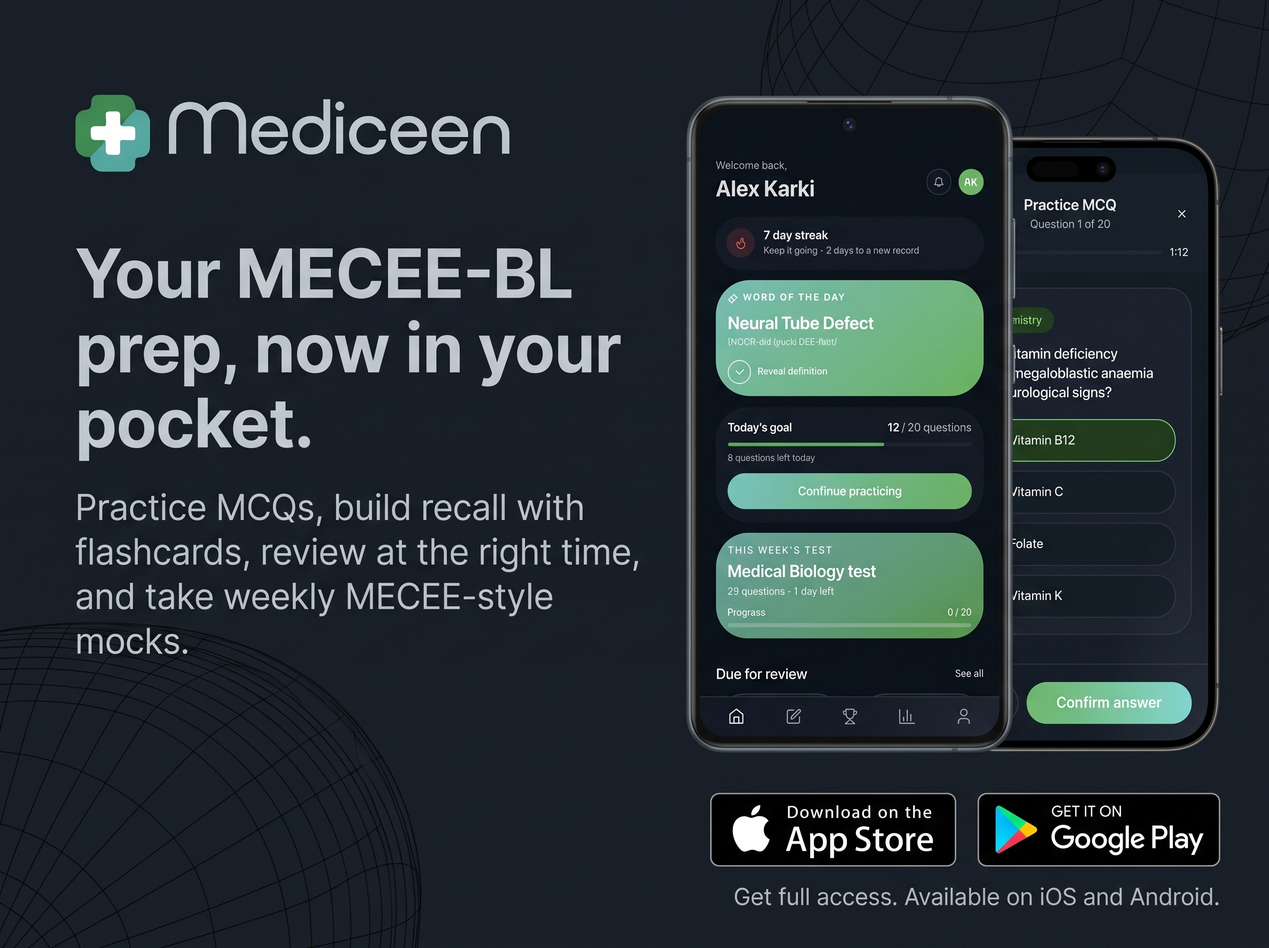
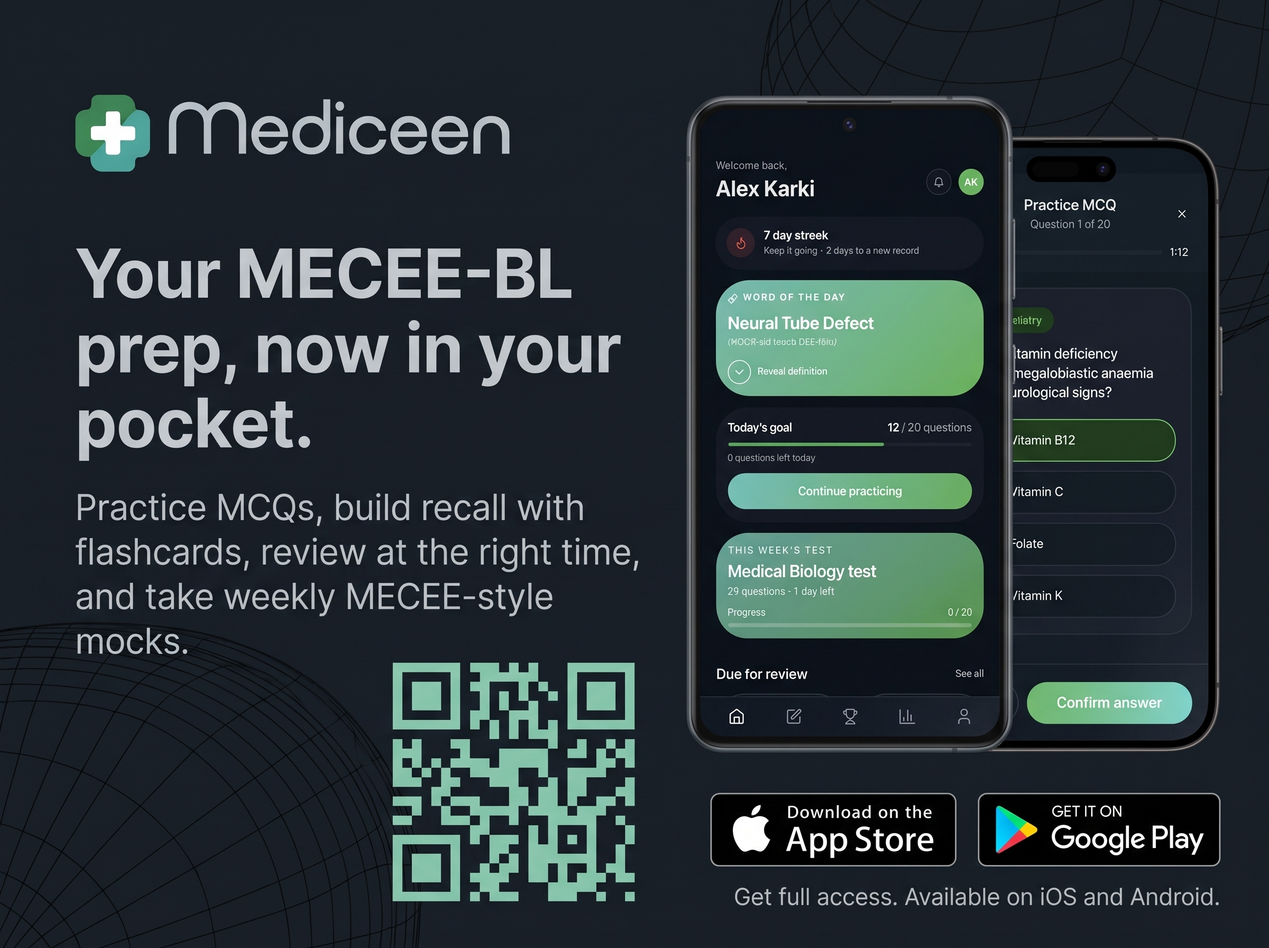
qr updated

diff --git a/AGENTS.md b/AGENTS.md
@@ -33,7 +33,7 @@ This file is the single source of truth for any AI coding assistant (Claude, Cur
 
 - **What's in progress right now:** Desktop TBT (~700ms) and document-request latency (~530ms estimated savings) were investigated and left unchanged — see Known issues. App Store listing / `STORE_LINKS.appStore` still pending. Confirm Resend domain verification + `RESEND_API_KEY` on Vercel and smoke-test delete-account form routing (email → privacy@, Google/Apple → support@). After deploy, confirm GA4 Realtime for `G-ZS8FFTDP00`. Re-measure PageSpeed after the notice-image and font-subset changes ship.
 - **Last completed:**
-  - Hero notice posters replaced with `design-refs/Notice-App-{Light,Dark}.jpg`, exported as `public/notice-app-{light,dark}.webp` (2400×1792 JPG → 1800×1344 WebP at quality 80, under 150KB). Old `notice-play-*.webp` removed. The poster links to `QR_DESTINATION` (both stores). `Notice.tsx` still mounts both variants (`dark:hidden` / `hidden dark:block`).
+  - Hero notice posters re-exported from the updated `design-refs/Notice-App-{Light,Dark}.jpg` (QR now in the artwork) as `public/notice-app-{light,dark}.webp` (2400×1792 JPG → 1800×1344 WebP at quality 80, under 150KB). The poster links to `QR_DESTINATION` (both stores). `Notice.tsx` still mounts both variants (`dark:hidden` / `hidden dark:block`).
   - FinalMoment device images render only the active theme. `useDocumentTheme` reads `document.documentElement`’s `dark` class (same source as the `__root.tsx` inline script) and watches it with a `MutationObserver`, matching `StyledQrCode`. No image until that read, so SSR HTML does not request the other variant.
   - Fonts: `__root.tsx` imports `src/styles/font-subsets.css` instead of the full Fontsource weight CSS. Plus Jakarta Sans 500/600/700/800 and Inter 400/500/600 are latin + latin-ext only. The weight files (`400.css`, `500.css`, …) also shipped cyrillic, cyrillic-ext, greek, greek-ext, and vietnamese (Plus Jakarta Sans has cyrillic-ext + vietnamese, no greek). Fontsource’s subset CSS (`latin-400.css`, …) omits `unicode-range`, so both faces would cover every character and the browser downloaded latin-ext for English text; the local file keeps those same font files and copies the ranges from each package’s `unicode.json`.
   - Removed unused `public/capsule.png` (cursor stays `public/capsule-cursor.png`). `public/web-10.png` is not in the repo; unreferenced `public/nitesh web-10.png` was left in place.
